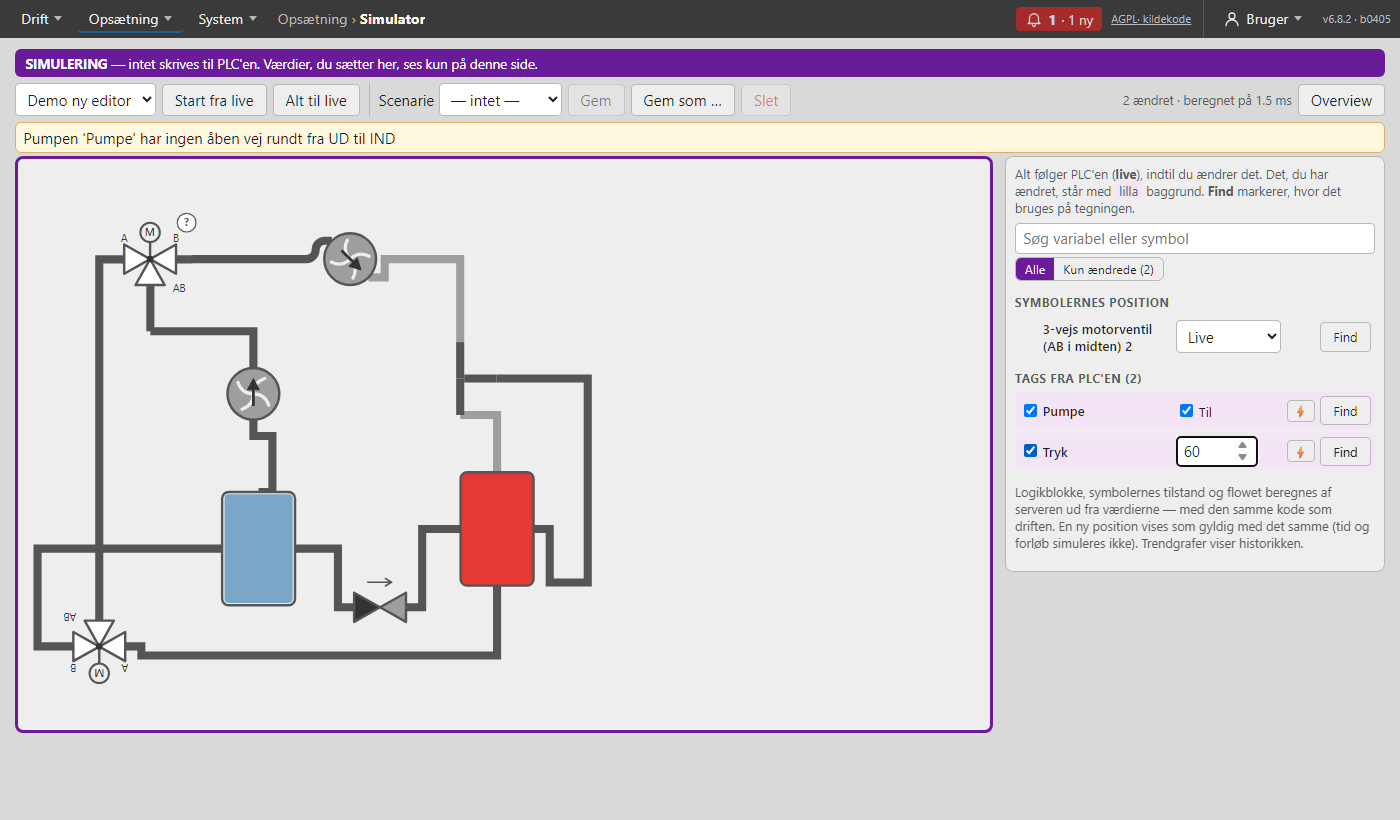
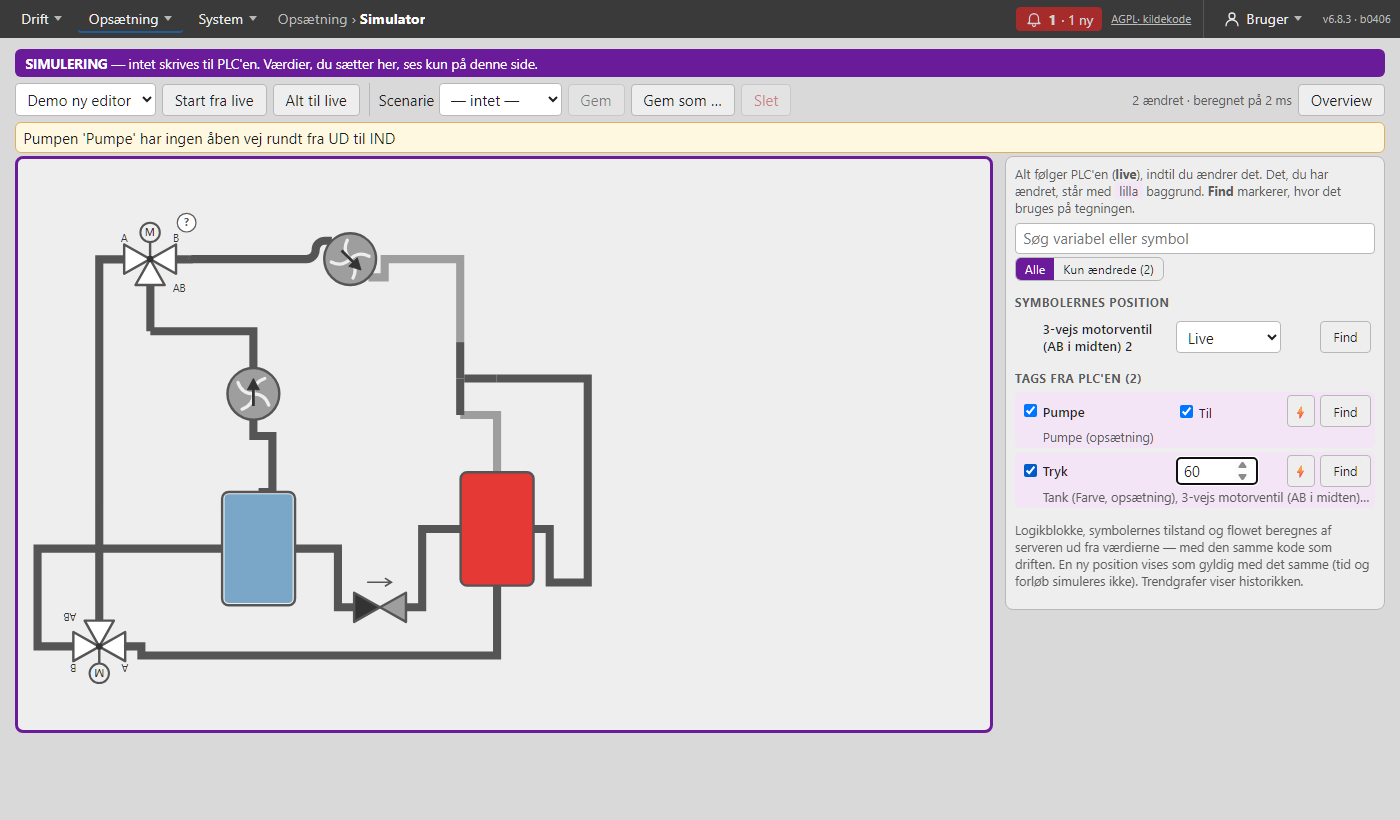
v6.8.3-b0406: fix — simulatoren viser kun tegningens symboler (forældreløse opsætninger nævnes), forklaring ved hvert tag

Changed region(s): [[0.7064, 0.4878, 0.9829, 0.7317], [0.7986, 0.122, 0.8907, 0.1524], [0.9214, 0.4878, 0.9829, 0.5183]]

diff --git a/frontend/src/pages/Simulator.svelte b/frontend/src/pages/Simulator.svelte
@@ -10,7 +10,7 @@
   import { clearOverlays, drawOverlay, markPassive } from '../lib/symbolOverlay';
   import { showsBadge, type SymbolState } from '../lib/symbolUi';
   import {
-    emptyState, fromLive, isSimulated, liveText, matches, startValue, stepFor, toLive,
+    emptyState, fromLive, isSimulated, liveText, matches, startValue, stepFor, toLive, usedText,
     type SimResult, type SimScenario, type SimState, type SimTag, type SimVariables,
   } from '../lib/simulator';
 
@@ -249,6 +249,11 @@
       <button class:cur={onlySim} role="radio" aria-checked={onlySim} onclick={() => (onlySim = true)} title="Kun de variabler og positioner, du har ændret (de andre følger PLC'en)">Kun ændrede ({nSim})</button>
     </div>
     {#if vars}
+      {#if vars.orphaned?.length}
+        <p class="small muted">{vars.orphaned.length} symbolopsætning{vars.orphaned.length === 1 ? '' : 'er'} hører til elementer, der ikke
+          længere er i tegningen, og vises ikke her ({vars.orphaned.slice(0, 5).join(', ')}{vars.orphaned.length > 5 ? ' …' : ''}).
+          Flyt eller fjern dem under <a href={'#editor/' + drawingId}>Bindinger</a>.</p>
+      {/if}
       {#if vars.positions.length}
         <h4>Symbolernes position</h4>
         {#each shownPos as p (p.element)}
@@ -297,6 +302,8 @@
             title={!on ? 'Sæt hak for at simulere tagget først' : v === null ? 'Kommunikationsfejl simuleres — tryk for at give tagget en værdi igen' : 'Simulér en kommunikationsfejl på tagget'}
             aria-label="{t.name}: kommunikationsfejl">⚡</button>
           <button class="small" onclick={() => highlight(t.elements)} disabled={!t.elements.length} title={`Markér på tegningen:\n${t.used.join('\n')}`}>Find</button>
+          <!-- v6.8.3 (Jan: "der er ikke tags eller symbol forklaring på"): hvad tagget er, og hvilke symboler der bruger det — fast linje -->
+          <span class="use small muted" title={[t.description, ...t.used].filter(Boolean).join('\n')}>{t.description ? `${t.description} · ` : ''}{usedText(t.used) || 'bruges ikke af et symbol'}</span>
         </div>
       {:else}<p class="small muted">Ingen tags{search || onlySim ? ' passer til søgningen' : ''}.</p>{/each}
 
@@ -314,6 +321,7 @@
             </span>
             <span></span>
             <button class="small" onclick={() => highlight(a.elements)} disabled={!a.elements.length} title="Markér på tegningen">Find</button>
+            <span class="use small muted" title={a.used.join('\n')}>{usedText(a.used)}</span>
           </div>
         {/each}
       {/if}
@@ -343,6 +351,7 @@
   /* én linje: værdien må aldrig ombryde, så rækken ikke skifter højde ved et hak; skyderen giver sig */
   .vals { display: flex; align-items: center; gap: .35rem; flex-wrap: nowrap; min-width: 0; overflow: hidden; white-space: nowrap; }
   .vals input[type='range'] { flex: 1 1 3rem; min-width: 2.5rem; width: auto; }
+  .use { grid-column: 2 / -1; margin-top: -.25rem; white-space: nowrap; overflow: hidden; text-overflow: ellipsis; }
   .tf { display: inline-block; min-width: 1.8em; }
   .kf { width: 1.9rem; padding: .1rem 0; text-align: center; }
   .kf.cur { background: #b71c1c; color: #fff; border-color: #b71c1c; }
@@ -351,7 +360,8 @@
   .seg { display: inline-flex; border: 1px solid var(--line); border-radius: 6px; overflow: hidden; align-self: flex-start; }
   .seg button { border: none; border-radius: 0; background: transparent; padding: .2rem .6rem; font-size: .82rem; }
   .seg button.cur { background: #6a1b9a; color: #fff; }
-  .var .n { width: 5.5rem; }
+  .var .n { width: 5.5rem; height: 1.9rem; padding-top: 0; padding-bottom: 0; }
+  .vals, .var select, .kf, .var button { height: 2.1rem; }
   .sw { margin: 0; }
   .msg { padding: .3rem .5rem; background: #fff8e1; border: 1px solid #e0b062; border-radius: 6px; margin: .2rem 0; }
   .msg.err, .err { color: #b71c1c; }

diff --git a/frontend/src/lib/simulator.ts b/frontend/src/lib/simulator.ts
@@ -10,7 +10,8 @@ export interface SimTag {
 }
 export interface SimPosition { element: string; name: string; labels: string[]; states?: (string | null)[]; display: string; live: number | null }
 export interface SimAlarm { name: string; tag: string; kind: string; used: string[]; elements: string[]; live: SimLive }
-export interface SimVariables { tags: SimTag[]; positions: SimPosition[]; alarms: SimAlarm[] }
+/** orphaned (v6.8.3): opsætninger på elementer, der ikke findes i tegningen — vises ikke som variabler */
+export interface SimVariables { tags: SimTag[]; positions: SimPosition[]; alarms: SimAlarm[]; orphaned?: string[] }
 export interface SimState { values: Record<string, unknown>; positions: Record<string, number> }
 export interface SimScenario extends SimState { id: number; name: string; updated_at: number; updated_by: string }
 export interface SimResult { values: Record<string, SimLive>; notes: string[]; ms: number; simulated: number }
@@ -64,4 +65,19 @@ export function liveText(l: SimLive | undefined, unit = ''): string {
   if (!l || l.quality !== 'good' || l.value === null || l.value === undefined) return l?.quality === 'comm_error' ? 'komm.fejl' : '—';
   if (typeof l.value === 'boolean') return l.value ? 'Til' : 'Fra';
   return `${typeof l.value === 'number' ? Math.round(l.value * 1000) / 1000 : String(l.value)}${unit ? ` ${unit}` : ''}`;
+}
+
+/** Hvad en variabel bruges til, kort (v6.8.3): "Pumpe · opsætning", "Pumpe · Farve" → "Pumpe (opsætning, Farve)"; højst 3 symboler. */
+export function usedText(used: string[], max = 3): string {
+  const by = new Map<string, string[]>();
+  for (const u of used) {
+    const i = u.lastIndexOf(' · ');
+    const who = i >= 0 ? u.slice(0, i) : u;
+    const what = i >= 0 ? u.slice(i + 3) : '';
+    const list = by.get(who) ?? [];
+    if (what && !list.includes(what)) list.push(what);
+    by.set(who, list);
+  }
+  const parts = [...by].map(([who, what]) => (what.length ? `${who} (${what.join(', ')})` : who));
+  return parts.length > max ? `${parts.slice(0, max).join(', ')} +${parts.length - max}` : parts.join(', ');
 }

diff --git a/frontend/src/lib/simulator.test.ts b/frontend/src/lib/simulator.test.ts
@@ -41,3 +41,12 @@ describe('simulatoren', () => {
     expect(liveText({ value: 2.5, quality: 'good' }, 'bar')).toBe('2.5 bar');
   });
 });
+
+describe('usedText (v6.8.3)', () => {
+  it('samler pr. symbol og afkorter', async () => {
+    const { usedText } = await import('./simulator');
+    expect(usedText(['Pumpe · opsætning', 'Pumpe · Farve', 'Tank · Farve'])).toBe('Pumpe (opsætning, Farve), Tank (Farve)');
+    expect(usedText(['A · x', 'B · x', 'C · x', 'D · x'])).toBe('A (x), B (x), C (x) +1');
+    expect(usedText([])).toBe('');
+  });
+});

diff --git a/backend/app/services/simulator.py b/backend/app/services/simulator.py
@@ -24,6 +24,7 @@ from .flow_calc import flow_tag, level_tag, ports_tag, ports_text, preview
 from .flow_defs import merged
 from .live_cache import LiveValue
 from .symbol_runtime import compute_state, remote_position
+from .svg_sanitize import index_svg
 from .symbols import ANIM_LABEL, PSEUDO_KINDS, config_tags, logic_pseudo_tags, logic_results, parse_alarm_ref, pseudo_tag
 
 log = logging.getLogger("scada.simulator")
@@ -111,6 +112,12 @@ class SimulatorService:
 
     def variables(self, drawing_id: str) -> dict[str, Any]:
         svg, eff, configs, names = self._context(drawing_id)
+        # v6.8.3 (Jan: "hvad er det for symboler … i den her er en pumpe og en 3-vejs ventil"): kun symboler, der findes i den
+        # udgivne tegning — en opsætning på et fjernet element (forældreløs, se Bindinger) og dens tags vises ikke.
+        # Beregningen (simulate) bruger stadig dem alle, som driften gør.
+        present = set(index_svg(svg))
+        orphaned = sorted(e for e in configs if e not in present)
+        configs = {e: c for e, c in configs.items() if e in present}
         tags = {t["name"]: t for t in self.db.list_tags()}
         nm = lambda el: names.get(el) or el  # noqa: E731
         uses: dict[str, list[str]] = {}
@@ -157,7 +164,7 @@ class SimulatorService:
             positions.append({"element": el, "name": nm(el), "labels": [p.get("label", "") for p in cfg.get("positions", [])],
                               "states": [p.get("state") for p in cfg.get("positions", [])],
                               "display": cfg.get("display", "remote"), "live": getattr(st, "pos", None)})
-        return {"tags": out_tags, "positions": positions, "alarms": alarms}
+        return {"tags": out_tags, "positions": positions, "alarms": alarms, "orphaned": orphaned}
 
     # ------------------------------------------------------------ beregningen
 

diff --git a/backend/tests/test_symbol_orphans.py b/backend/tests/test_symbol_orphans.py
@@ -89,3 +89,12 @@ def test_failed_move_leaves_everything_as_before(api):
     assert r.status_code == 400, r.text
     assert api.get(f"{base}/symbols/Q/config").json()["has_pin"] is False
     assert [o["element"] for o in api.get(f"{base}/symbols-orphaned").json()] == ["P"]
+
+
+def test_simulator_lists_only_symbols_in_the_drawing(api):
+    """v6.8.3 (Jan): simulatoren viser ikke forældreløse opsætninger og deres tags — de nævnes i `orphaned`."""
+    base = f"/api/drawings/{api.did}"
+    assert [t["name"] for t in api.get(f"{base}/simulator").json()["tags"]] == ["Drift"]
+    new_version(api, pump("P_2", 50))
+    v = api.get(f"{base}/simulator").json()
+    assert v["tags"] == [] and v["positions"] == [] and v["orphaned"] == ["P"]

diff --git a/CHANGELOG.md b/CHANGELOG.md
@@ -4,6 +4,14 @@ Nyeste øverst. Format: `## [version build NNNN] — YYYY-MM-DD — beskrivelse`
 
 ---
 
+## [6.8.3 build 0406] — 2026-11-13 — Simulatoren: kun tegningens symboler, og en forklaring ved hvert tag
+
+- **Fejl:** simulatoren viste forældreløse symbolopsætninger og deres tags (BUGS.md). `backend/app/services/simulator.py variables` filtrerer på elementerne i den udgivne tegning (`index_svg`) og returnerer `orphaned`. `Simulator.svelte` nævner dem med et link til Bindinger.
+- **Forklaring** (`Simulator.svelte`, `lib/simulator.ts usedText`): under hvert tag og hver alarm står en fast linje med tagets beskrivelse og de symboler, der bruger det, fx *Tank (Farve, opsætning)*.
+- Rækkernes kontroller har fast højde, så talfeltet ikke længere gør rækken højere. Målt ens i alle tilstande.
+- Tests: `test_symbol_orphans.py`, `simulator.test.ts`. Set i browseren: forklaringslinjen og rækkehøjden. Noten om forældreløse opsætninger er kun bygget og ikke set; den lokale testtegning har ingen.
+- Manual kap. 07 og billedet `simulator.png`.
+
 ## [6.8.2 build 0405] — 2026-11-13 — Simulatoren: rækkerne flytter sig ikke længere ved et hak
 
 - `frontend/src/pages/Simulator.svelte`: rækkerne har faste kolonner (hak, navn, værdi, ⚡ komm.fejl, Find). Værdien står på én linje, og skyderen giver sig. *Til/Fra* og *Ja/Nej* har fast bredde, og rækkerne har fast højde. *komm.fejl* er en fast knap ⚡ (tryk igen = værdi), slået fra uden hak (BUGS.md).

diff --git a/BUGS.md b/BUGS.md
@@ -5,6 +5,7 @@ Status: `open` | `investigating` | `fixed`
 
 ---
 
+- [fixed] v6.8.3 — **Simulatoren viste symboler og tags, som ikke var i tegningen** (Jan 2026-11-13). Tegningen havde én pumpe og én 3-vejsventil, men panelet viste seks positioner (omskifter3_2, trevejs_motorventil …) og deres tags. **Årsag:** `simulator.variables` tog alle symbolopsætninger på tegningen med, også dem på elementer, der er fjernet (forældreløse opsætninger, jf. advarslen i Meddelelser). **Rettelse:** kun opsætninger på elementer i den udgivne tegning vises; de andre står i `orphaned` og nævnes øverst med et link til Bindinger. Beregningen bruger dem stadig, som driften gør. Test: `test_simulator_lists_only_symbols_in_the_drawing`.
 - [fixed] v6.8.2 — **Simulatorens rækker flyttede sig, når man satte hak** (Jan 2026-11-13: "alle steder hvor man kan trykke … flytter ting sig rundt"). Når et tag skiftede mellem *Fra* og *Til*, ombrydes *komm.fejl* til en ny linje og rækken skiftede højde. **Årsag:** teksten ved hakket skiftede bredde, og værdiområdet måtte ombryde. Knappen *komm.fejl* kom og gik med tilstanden. **Rettelse:**
   - faste kolonner (hak, navn, værdi, ⚡, Find);
   - værdien på én linje, hvor skyderen giver sig;

diff --git a/frontend/src/manual/llm/tegn.md b/frontend/src/manual/llm/tegn.md
@@ -131,7 +131,7 @@ I guidens trin 4 › **Flow** › **Målt flow**: vælg sensorens tag og skriv *
 De er faste værdier for symbolet (dets fysik): skriv tallet 0,00–1,00 i trin 4 › Flow, eller træk i skyderen. Sæt hak i **styret af et tag**, hvis PLC'en skal styre værdien, og angiv hvad der er 1,00 (fx 100 for en ventils åbning i %).
 
 ## Hvordan tester jeg en tegnings tilstande uden PLC (simulator, indskyd værdier, scenarier)?
-<!-- kilde: 07-tegn#m-simulator-proev-tegningens-tilstande sha:3ec5fa7f -->
+<!-- kilde: 07-tegn#m-simulator-proev-tegningens-tilstande sha:c147ad77 -->
 Åbn **Opsætning › Simulator** (eller **Simulér** på Overview). Panelet viser alle variabler, tegningen bruger (tags, positioner, alarmer). Sæt hak ud for en variabel og vælg en værdi; tegningen viser resultatet med det samme — logik, symbolernes tilstand og flowet beregnes som i drift. **komm.fejl** viser en kommunikationsfejl, **Start fra live** kopierer PLC'ens værdier ind, og **Gem som …** gemmer et scenarie. Intet skrives til PLC'en.
 
 ## Hvordan definerer jeg en ventils tilstande (A igennem AB og B blokeret, 4-vejsventil A → B / C → D)?

diff --git a/frontend/src/manual/07-tegn.md b/frontend/src/manual/07-tegn.md
@@ -264,6 +264,8 @@ Har du en tegning, hvor pumper, ventiler og etiketter er tegnet som almindelige 
   - **tags fra PLC'en** fra bindinger, symbolernes signaler og tilbagemeldinger, animationer, logik og flow;
   - **symbolernes position**;
   - **alarmer**, som animationer styres af.
+
+  Under hvert tag står dets beskrivelse og de symboler, der bruger det, fx *Tank (Farve, opsætning)*. Kun symboler, der findes i tegningen, kommer med. Opsætninger på elementer, der er fjernet fra tegningen, nævnes øverst med et link til **Bindinger**, hvor de kan flyttes eller fjernes.
 - **Sådan simulerer du en variabel:** sæt hak ud for den, og vælg værdien:
   - til/fra med et hak;
   - et tal i feltet eller med skyderen (fra tagets min/max);

diff --git a/RELEASE_NOTES.md b/RELEASE_NOTES.md
@@ -2,6 +2,11 @@
 
 ---
 
+## v6.8.3 — 2026-11-13
+
+- Simulatoren viser kun de symboler, der er i tegningen. Opsætninger på fjernede elementer nævnes med et link til Bindinger.
+- Under hvert tag står, hvad det er, og hvilke symboler der bruger det.
+
 ## v6.8.2 — 2026-11-13
 
 - Simulatoren: rækkerne står stille, når du sætter hak eller skifter Til/Fra; komm.fejl er knappen ⚡.
